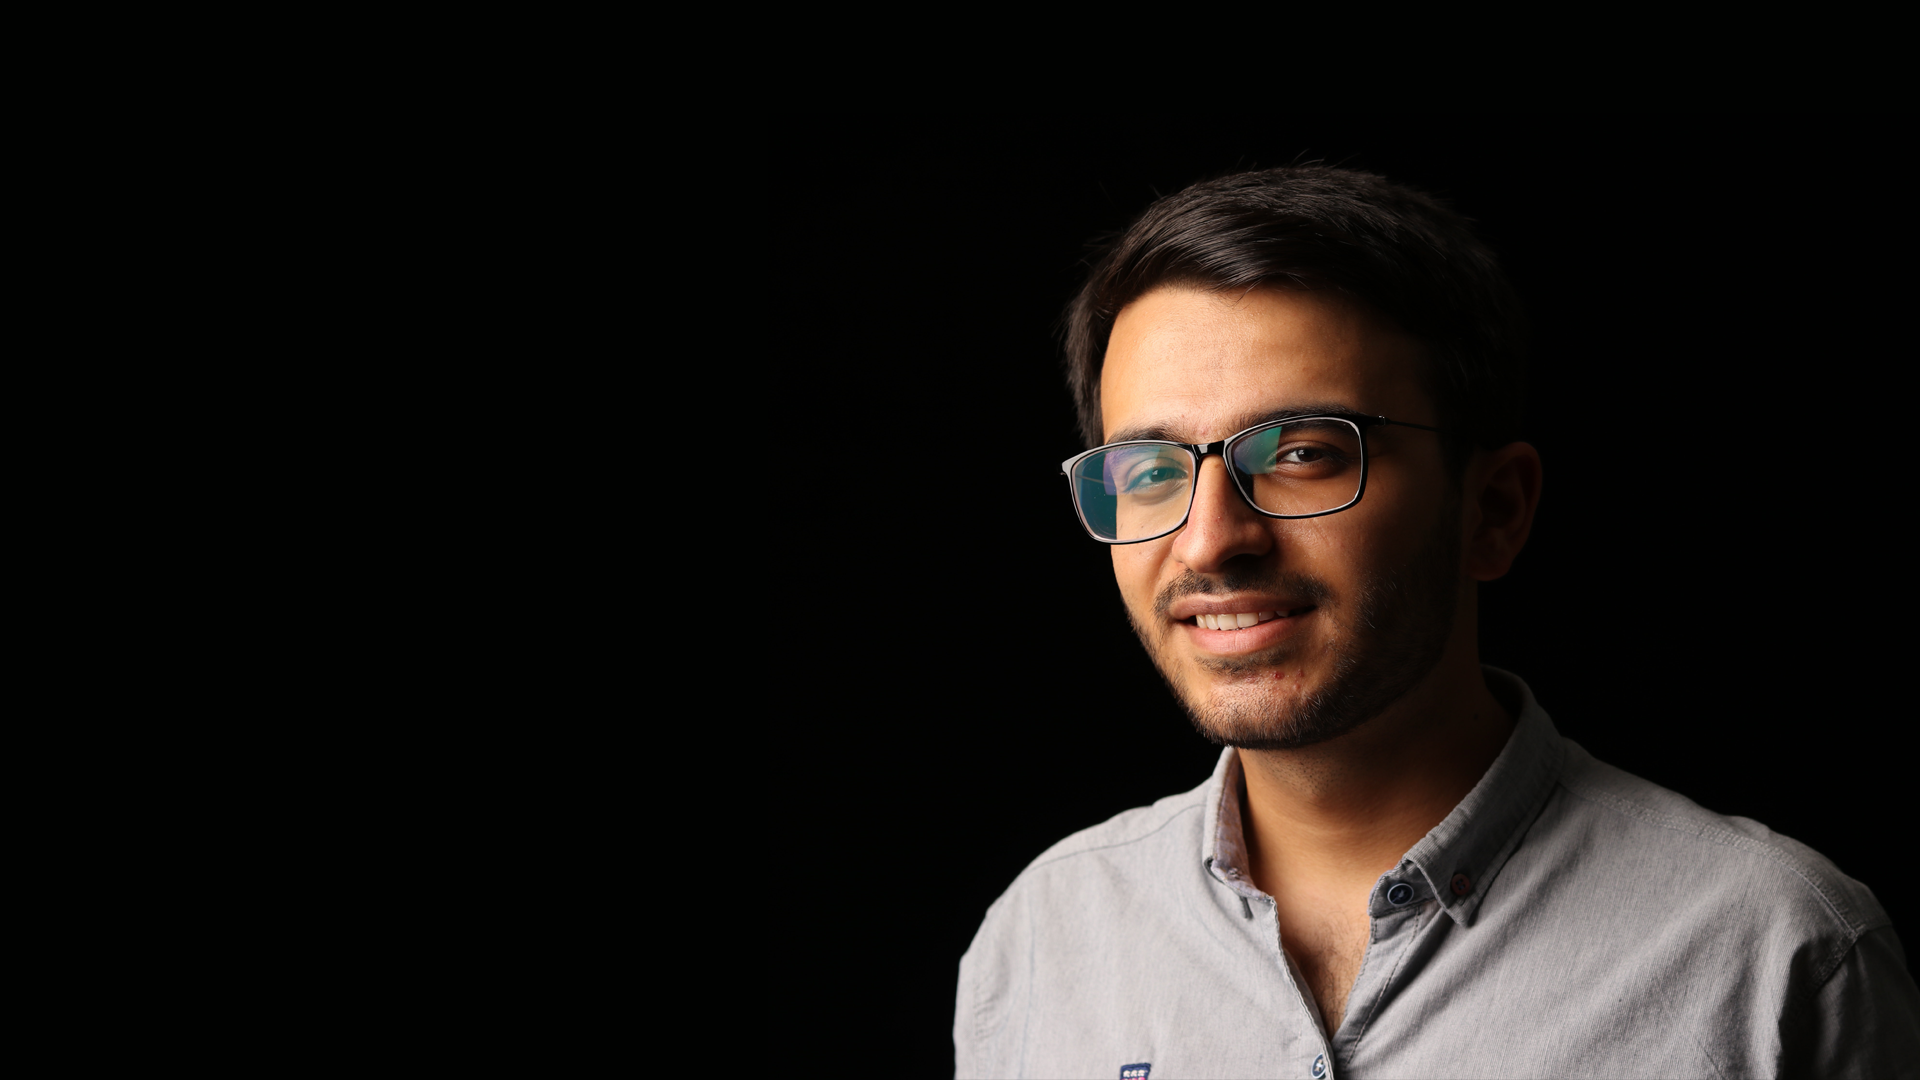
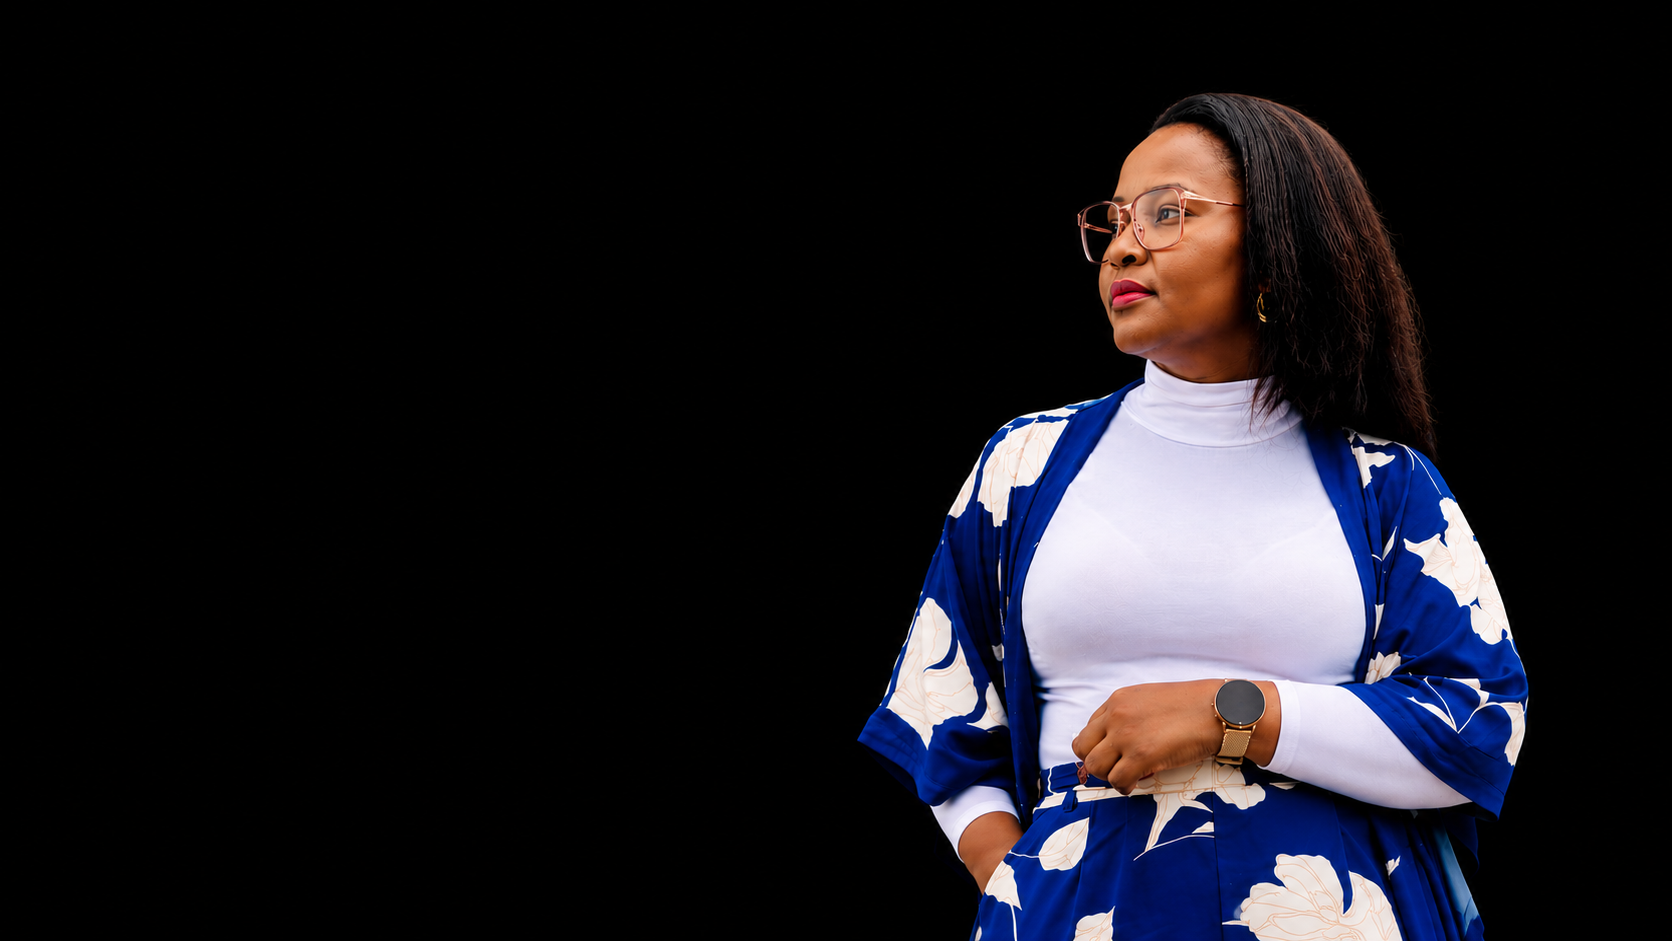
Services complete

Changed region(s): [[0.4976, 0.0925, 0.9952, 1.0]]

diff --git a/style.css b/style.css
@@ -213,4 +213,63 @@ nav ul li a:hover::after {
     width: 100%;
     border-radius: 10px;
     display: block;
+    transition: transform 0.5s;
+}
+
+.layer {
+    width: 100%;
+    height: 0;
+    background: linear-gradient(rgba(0, 0, 0, 0.6), #ff004f);
+    border-radius: 10px;
+    position: absolute;
+    left: 0;
+    bottom: 0;
+    overflow: hidden;
+    display: flex;
+    align-items: center;
+    justify-content: center;
+    flex-direction: column;
+    padding: 0 40px;
+    text-align: center;
+    font-size: 14px;
+    transition: height 0.5s;
+}
+.layer h3 {
+    font-weight: 500;
+    margin-bottom: 20px;
+}
+.layer a {
+    margin-top: 20px;
+    color: #ff004f;
+    text-decoration: none;
+    font-size: 18px;
+    line-height: 60px;
+    background: #fff;
+    width: 60px;
+    height: 60px;
+    border-radius: 50%;
+    text-align: center;
+}
+
+.work:hover img {
+    transform: scale(1.1);
+}
+.work:hover .layer {
+    height: 100%;
+}
+
+.btn {
+    display: block;
+    margin: 50px auto;
+    width: fit-content;
+    border: 1px solid #ff004f;
+    padding: 14px 50px;
+    border-radius: 6px;
+    text-decoration: none;
+    color: #fff;
+    transition: background 0.5s;
+}
+
+.btn:hover {
+    background: #ff004f;
 }

diff --git a/index.html b/index.html
@@ -23,7 +23,7 @@
             </nav>
             <div class="header-text">
                 <p>Social Worker</p>
-                <h1>Hi, I'm <span>Vathiswa</span><br>Mnqojana From Gqeberha</h1>
+                <h1>Hi, I'm <span>Vathiswa</span><br>Mnqojana From<br>Gqeberha</h1>
             </div>
         </div>
     </div>
@@ -113,14 +113,30 @@
             <div class="work-list">
                 <div class="work">
                     <img src="images/work-1.png">
+                    <div class="layer">
+                        <h3>Social Media App</h3>
+                        <p>This app connects you to the talented people around the world. Download it from play store.</p>
+                        <a href="#"><i class="fa-solid fa-arrow-up-right-from-square"></i></a>
+                    </div>
                 </div>
                 <div class="work">
                     <img src="images/work-2.png">
+                    <div class="layer">
+                        <h3>Music App</h3>
+                        <p>This app connects you to the talented people around the world. Download it from play store.</p>
+                        <a href="#"><i class="fa-solid fa-arrow-up-right-from-square"></i></a>
+                    </div>
                 </div>
                 <div class="work">
                     <img src="images/work-3.png">
+                    <div class="layer">
+                        <h3>Online Shopping App</h3>
+                        <p>This app connects you to the talented people around the world. Download it from play store.</p>
+                        <a href="#"><i class="fa-solid fa-arrow-up-right-from-square"></i></a>
+                    </div>
                 </div>
             </div>
+            <a href="#" class="btn">See more</a>
         </div>
     </div>
 